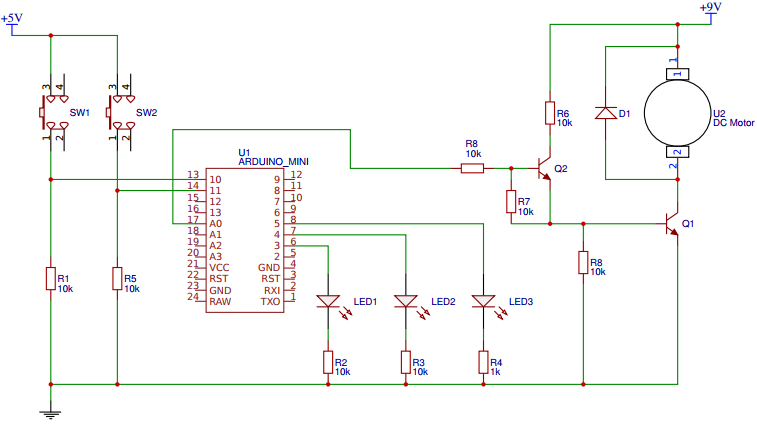
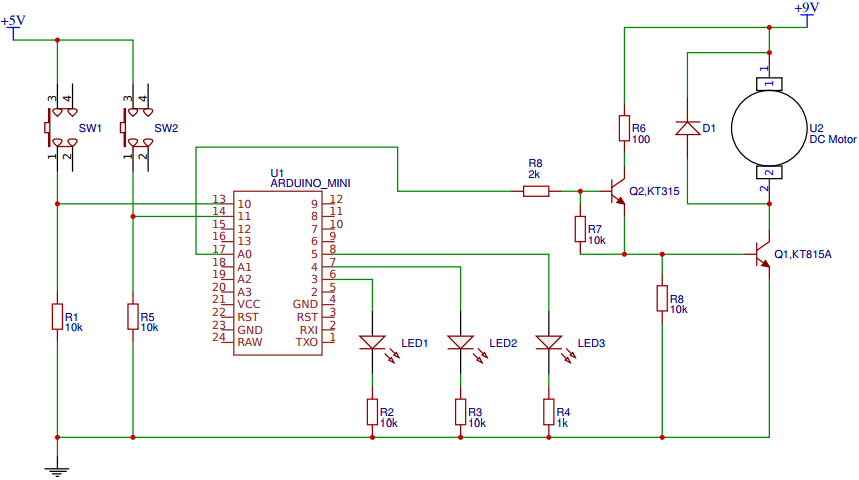
nastya: programming, electronic

diff --git a/lections/presentation/F0-app-attention/main.tex b/lections/presentation/F0-app-attention/main.tex
@@ -8,7 +8,7 @@
 
 \title[Привниматическое оружие]{Опыт создания и использования привниматического оружия}
 
-\newcommand{\myDevice}{ТРЕНЬК-2}
+\newcommand{\myDevice}{БЗДЕНЬК-2}
 
 \begin{document}
 
@@ -299,18 +299,32 @@
 
 \begin{frame}
     \begin{center}
-        Характеристики существующих образцов можно улучшить. Выполним разработку нового образча привниматического оружия.
+        Характеристики существующих образцов можно улучшить. 
+        
+        \par\bigskip
+        
+        Выполним разработку нового образча привниматического оружия.
     \end{center}
 \end{frame}
+
 
 \section{Создание и использование}
 
 \begin{frame}
     \frametitle{\myDevice}
-    \framesubtitle{Внешний вид}
-    
+    %фото бзденьк
 \end{frame}
 
+\begin{frame}
+    \frametitle{Режимы работы \myDevice}
+    \framesubtitle{Переключаются отдельной кнопкой}
+    
+    \begin{itemize}
+        \item вялый;
+        \item импульсный;
+        \item шквал.
+    \end{itemize}    
+\end{frame}
 
 \subsection{Характеристики}
 
@@ -343,14 +357,13 @@
 \subsection{Устройство}
 
 \begin{frame}
-    \frametitle{\myDevice}
-    \framesubtitle{Устройство. Механика}
+    \frametitle{Механика \myDevice}
+    
     %TODO: механика
 \end{frame}
 
 \begin{frame}
-    \frametitle{\myDevice}
-    \framesubtitle{Устройство. Электроника}
+    \frametitle{Электроника \myDevice}
     
     \begin{center}
         \includegraphics[width=0.99\textwidth]{fig/eScheme}
@@ -358,14 +371,15 @@
 \end{frame}
 
 \begin{frame}
-    \frametitle{\myDevice}
-    \framesubtitle{Устройство. Программирование}
-    %TODO: программирование
+    \frametitle{Программирование контроллера \myDevice}
+    
+    \begin{center}
+        \includegraphics[width=0.4\textwidth]{fig/programming}
+    \end{center}
 \end{frame}
 
 \begin{frame}
-    \frametitle{\myDevice}
-    \framesubtitle{Смета проекта}
+    \frametitle{Смета проекта \myDevice}
     
     \begin{center}
         \begin{tabular}{l|c|c|l}
@@ -377,26 +391,16 @@
             Breadboard & 1  & 50   & Чтобы не паять детали\\
             Моторчик   & 1  & 50   & 4-9V, max 1A, 800 RPM\\
             Шестерёнки & 2  & 5    & Крутить обойму\\
+            Батарейка  & 1  & 40   & Крона, 9V, питание схемы\\
             Провод     & -  & 0    & Нашли в папином ящике\\
             Транзистор & 2  & 0    & Нашли в папином ящике\\
             Изолента   & -  & 0    & Нашли в папином ящике\\
             Фанера     & -  & 0    & Нашли в гараже\\
             Деревяшка  & -  & 0    & Нашли в гараже\\
             Зубочистки & 17 & 0    & Нашли на кухне\\ \hline
-            \multicolumn{2}{r|}{Итого(\alert{без учета работ}):} & \multicolumn{1}{c}{\alert{$181.50$}} & \\
+            \multicolumn{2}{r|}{Итого(\alert{без учета работ}):} & \multicolumn{1}{c}{\alert{$221.50$}} & \\
         \end{tabular}
     \end{center}
-\end{frame}
-
-\begin{frame}
-    \frametitle{\myDevice}
-    \framesubtitle{Режимы работы}
-    
-    \begin{itemize}
-        \item вялый;
-        \item импульсный;
-        \item шквал.
-    \end{itemize}    
 \end{frame}
 
 
